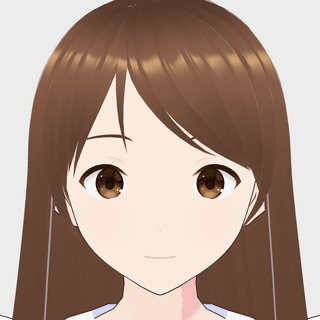
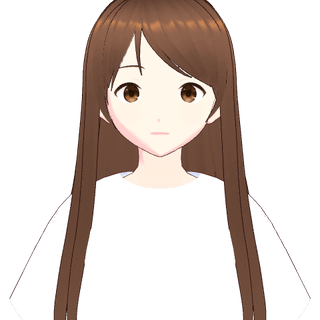
Pause / resume while recording; square carousel tiles; "my file" next to the links
- Pause button (and P while recording): MediaRecorder pause/resume, the
  timer skips paused time, the 3-minute cap counts only recorded time
- Carousel tiles are square with the name inside; thumbnails re-rendered
  as head-and-shoulders (zoomed out) instead of the tight VRM face crops
- "My file (.vrm)" moved under the carousel, beside the free-avatar links

diff --git a/src/app/App.tsx b/src/app/App.tsx
@@ -7,6 +7,8 @@ import {
   Image as ImageIcon,
   Mic,
   MicOff,
+  Pause,
+  Play,
   RefreshCw,
   Share2,
   ShieldCheck,
@@ -62,6 +64,10 @@ export function App() {
   const [mic, setMic] = useState(true);
   const [recording, setRecording] = useState(false);
   const [recStart, setRecStart] = useState(0);
+  const [paused, setPaused] = useState(false);
+  /** ms spent paused so far, plus when the current pause began */
+  const [pausedMs, setPausedMs] = useState(0);
+  const [pauseAt, setPauseAt] = useState(0);
   const [now, setNow] = useState(0);
   const [take, setTake] = useState<Take | null>(null);
   const [modelId, setModelId] = useState(MODELS[0].id);
@@ -164,6 +170,7 @@ export function App() {
     if (!cam?.recording) return;
     const blob = await cam.stopRecording();
     setRecording(false);
+    setPaused(false);
     if (blob) {
       const ext = blob.type.includes("mp4") ? "mp4" : "webm";
       showTake({ url: URL.createObjectURL(blob), name: `anime-${stamp()}.${ext}`, kind: "video", blob });
@@ -177,9 +184,26 @@ export function App() {
         await camRef.current!.startRecording(mic);
         setRecStart(performance.now());
         setNow(performance.now());
+        setPausedMs(0);
+        setPaused(false);
         setRecording(true);
       }),
     );
+  };
+
+  const togglePause = () => {
+    const cam = camRef.current;
+    if (!cam?.recording) return;
+    const t = performance.now();
+    if (cam.paused) {
+      cam.resumeRecording();
+      setPausedMs((ms) => ms + (t - pauseAt));
+      setPaused(false);
+    } else {
+      cam.pauseRecording();
+      setPauseAt(t);
+      setPaused(true);
+    }
   };
 
   const photo = async () => {
@@ -193,10 +217,10 @@ export function App() {
     const id = setInterval(() => {
       const t = performance.now();
       setNow(t);
-      if (t - recStart > MAX_RECORD_S * 1000) void stopRecording();
+      if (!paused && t - recStart - pausedMs > MAX_RECORD_S * 1000) void stopRecording();
     }, 250);
     return () => clearInterval(id);
-  }, [recording, recStart, stopRecording]);
+  }, [recording, recStart, pausedMs, paused, stopRecording]);
 
   // keyboard: space = record / stop, P = photo
   useEffect(() => {
@@ -207,7 +231,10 @@ export function App() {
         e.preventDefault();
         if (recording) void stopRecording();
         else if (!countdown) startRecording();
-      } else if (e.key === "p" || e.key === "P") void photo();
+      } else if (e.key === "p" || e.key === "P") {
+        if (recording) togglePause();
+        else void photo();
+      }
     };
     window.addEventListener("keydown", onKey);
     return () => window.removeEventListener("keydown", onKey);
@@ -224,7 +251,8 @@ export function App() {
   const canShare = (t: Take) =>
     typeof navigator.canShare === "function" && navigator.canShare({ files: [new File([t.blob], t.name, { type: t.blob.type })] });
 
-  const seconds = recording ? Math.max(0, Math.floor((now - recStart) / 1000)) : 0;
+  const elapsed = (paused ? pauseAt : now) - recStart - pausedMs;
+  const seconds = recording ? Math.max(0, Math.floor(elapsed / 1000)) : 0;
   const hint = !started
     ? null
     : !status.model
@@ -261,19 +289,18 @@ export function App() {
                     title={m.license}
                   >
                     <img src={m.thumb} alt="" width={160} height={160} />
-                    <span>{m.name}</span>
+                    <span className="name">{m.name}</span>
                     {loading?.id === m.id && <Spinner pct={loading.pct} />}
                   </button>
                 ))}
               </div>
-              <label className={`avatar upload ${modelId === "file" ? "on" : ""}`} title="ใช้ไฟล์ .vrm ของเราเอง">
-                <Upload size={22} />
-                <span>ไฟล์ของฉัน</span>
-                {loading?.id === "file" && <Spinner pct={loading.pct} />}
-                <input type="file" accept=".vrm,.glb" hidden onChange={(e) => loadFile(e.target.files?.[0])} />
-              </label>
             </div>
             <div className="chars-foot">
+              <label className={`button upload ${modelId === "file" ? "on" : ""}`} title="ใช้ไฟล์ .vrm ของเราเอง">
+                {loading?.id === "file" ? <span className="mini-spin" aria-label={`กำลังโหลด ${loading.pct}%`} /> : <Upload size={16} />}
+                {loading?.id === "file" ? `${loading.pct}%` : "ไฟล์ของฉัน (.vrm)"}
+                <input type="file" accept=".vrm,.glb" hidden onChange={(e) => loadFile(e.target.files?.[0])} />
+              </label>
               <details className="sources">
                 <summary>
                   หาตัวละครฟรีเพิ่ม <ChevronDown size={14} />
@@ -308,8 +335,10 @@ export function App() {
             {!started && <Intro busy={!!busy} onStart={() => start()} />}
             {hint && !countdown && !busy && <div className="hint">{hint}</div>}
             {recording && (
-              <div className="rec">
-                <Circle size={12} fill="currentColor" /> {Math.floor(seconds / 60)}:{String(seconds % 60).padStart(2, "0")}
+              <div className={`rec ${paused ? "paused" : ""}`}>
+                {paused ? <Pause size={12} fill="currentColor" /> : <Circle size={12} fill="currentColor" />}{" "}
+                {paused ? "พัก " : ""}
+                {Math.floor(seconds / 60)}:{String(seconds % 60).padStart(2, "0")}
               </div>
             )}
             {busy && started && <div className="hint">{busy}</div>}
@@ -328,10 +357,17 @@ export function App() {
           )}
 
           <div className="shoot">
-            <button className="round" disabled={!started || recording} onClick={photo} title="ถ่ายรูป (P)">
-              <ImageIcon size={22} />
-              <span>ถ่ายรูป</span>
-            </button>
+            {recording ? (
+              <button className={`round ${paused ? "go-soft" : ""}`} onClick={togglePause} title="พัก / อัดต่อ (P)">
+                {paused ? <Play size={22} fill="currentColor" /> : <Pause size={22} fill="currentColor" />}
+                <span>{paused ? "อัดต่อ" : "พัก"}</span>
+              </button>
+            ) : (
+              <button className="round" disabled={!started} onClick={photo} title="ถ่ายรูป (P)">
+                <ImageIcon size={22} />
+                <span>ถ่ายรูป</span>
+              </button>
+            )}
             <button
               className={`round big ${recording ? "stop" : "go"}`}
               disabled={!started || !!countdown}
@@ -350,7 +386,7 @@ export function App() {
               <Toggle label="9:16" on={settings.aspect === "9:16"} onClick={() => set("aspect", "9:16")} />
             </div>
           </div>
-          {!phone && <p className="keys">คีย์ลัด: Space = อัด / หยุด · P = ถ่ายรูป</p>}
+          {!phone && <p className="keys">คีย์ลัด: Space = อัด / หยุด · P = ถ่ายรูป (ตอนอัด = พัก / อัดต่อ)</p>}
         </div>
 
         <aside className="panel">

diff --git a/src/styles/index.css b/src/styles/index.css
@@ -57,6 +57,8 @@ h2 { margin: 0 0 6px; font-family: "Fredoka", "Mitr", sans-serif; font-size: 18p
 .round.go { background: var(--bacon); color: var(--white); }
 .round.stop { background: var(--ink); color: var(--white); }
 .round.off { color: var(--muted); }
+.round.go-soft { background: var(--yolk); }
+.rec.paused { background: var(--ink); }
 .seg { display: inline-flex; gap: 6px; }
 .seg.wide { display: grid; grid-template-columns: 1fr 1fr; }
 .keys { margin: 0; text-align: center; font-size: 12px; color: var(--muted); }
@@ -76,21 +78,23 @@ button.big { background: var(--yolk); font-size: 20px; padding: 12px 28px; }
 
 /* ---------- character carousel (above the camera) */
 .chars { display: flex; flex-direction: column; gap: 8px; }
-.carousel-row { display: flex; gap: 10px; align-items: stretch; }
+.carousel-row { display: flex; }
 .carousel { flex: 1; min-width: 0; display: flex; gap: 10px; overflow-x: auto; scroll-snap-type: x proximity; padding: 4px 6px 10px 2px; scrollbar-width: thin; }
-.avatar { position: relative; flex: 0 0 auto; width: 96px; min-width: 0; flex-direction: column; gap: 4px; padding: 4px 4px 6px; border-radius: 14px; font-size: 13px; min-height: 0; scroll-snap-align: start; }
-.avatar img { width: 100%; aspect-ratio: 1; object-fit: cover; border-radius: 10px; display: block; background: var(--toast); }
-.avatar.on { background: var(--yolk); }
-.avatar.upload { display: flex; align-items: center; justify-content: center; align-self: flex-start; height: calc(96px + 22px); margin-top: 4px; background: var(--white); border: var(--line); box-shadow: 3px 3px 0 var(--ink); cursor: pointer; color: var(--muted); }
-.avatar.upload.on { background: var(--yolk); color: var(--ink); }
-.spinner { position: absolute; inset: 4px 4px auto 4px; aspect-ratio: 1; display: grid; place-items: center; background: rgba(255, 253, 245, 0.7); border-radius: 10px; }
+.avatar { position: relative; flex: 0 0 auto; width: 104px; height: 104px; min-height: 0; padding: 0; overflow: hidden; border-radius: 16px; scroll-snap-align: start; background: linear-gradient(#fff4c2, #ffe0ec); }
+.avatar img { position: absolute; inset: 0; width: 100%; height: 100%; object-fit: cover; display: block; }
+.avatar .name { position: absolute; left: 50%; bottom: 5px; transform: translateX(-50%); padding: 0 8px; border-radius: 999px; background: var(--white); border: 2px solid var(--ink); font: 600 12px "Fredoka", "Mitr", sans-serif; white-space: nowrap; }
+.avatar.on { outline: 4px solid var(--bacon); outline-offset: 0; }
+.avatar.on .name { background: var(--yolk); }
+.spinner { position: absolute; inset: 0; display: grid; place-items: center; background: rgba(255, 253, 245, 0.7); }
 .spinner .ring { position: absolute; width: 48%; aspect-ratio: 1; border-radius: 50%; border: 5px solid rgba(42, 15, 8, 0.15); border-top-color: var(--bacon); animation: spin 0.8s linear infinite; }
 .spinner b { font: 600 12px "JetBrains Mono", monospace; }
-.avatar.upload .spinner { inset: 4px; aspect-ratio: auto; }
+.mini-spin { width: 16px; height: 16px; border-radius: 50%; border: 3px solid rgba(42, 15, 8, 0.15); border-top-color: var(--bacon); animation: spin 0.8s linear infinite; }
 @keyframes spin { to { transform: rotate(360deg); } }
-.chars-foot { display: flex; flex-wrap: wrap; align-items: flex-start; justify-content: space-between; gap: 8px; }
-.chars-foot .sources { flex: 1 1 260px; }
-.chars-foot .license { flex: 0 1 auto; }
+.chars-foot { display: flex; flex-wrap: wrap; align-items: flex-start; gap: 8px 14px; }
+.chars-foot .upload { cursor: pointer; font-size: 14px; min-height: 36px; padding: 4px 12px; }
+.chars-foot .upload.on { background: var(--yolk); }
+.chars-foot .sources { flex: 1 1 220px; padding-top: 6px; }
+.chars-foot .license { flex: 0 1 auto; margin-top: 4px; }
 
 .bgs { display: grid; grid-template-columns: repeat(3, minmax(0, 1fr)); gap: 8px; }
 .bg { font-size: 13px; padding: 6px; }
@@ -139,8 +143,7 @@ details[open] > summary svg { transform: rotate(180deg); }
 .foot a { color: var(--ink); }
 
 @media (max-width: 600px) {
-  .avatar { width: 80px; }
-  .avatar.upload { height: calc(80px + 22px); }
+  .avatar { width: 84px; height: 84px; }
   h1 { font-size: 26px; }
   .round { width: 64px; height: 64px; }
   .round.big { width: 84px; height: 84px; }

diff --git a/src/features/headcam/HeadCam.ts b/src/features/headcam/HeadCam.ts
@@ -327,8 +327,21 @@ export class HeadCam {
 
   // ---------- recording
 
+  /** true while recording, paused or not */
   get recording(): boolean {
-    return this.recorder?.state === "recording";
+    return this.recorder !== null && this.recorder.state !== "inactive";
+  }
+
+  get paused(): boolean {
+    return this.recorder?.state === "paused";
+  }
+
+  pauseRecording(): void {
+    if (this.recorder?.state === "recording") this.recorder.pause();
+  }
+
+  resumeRecording(): void {
+    if (this.recorder?.state === "paused") this.recorder.resume();
   }
 
   /** record the composited picture (and the mic, if asked) */
